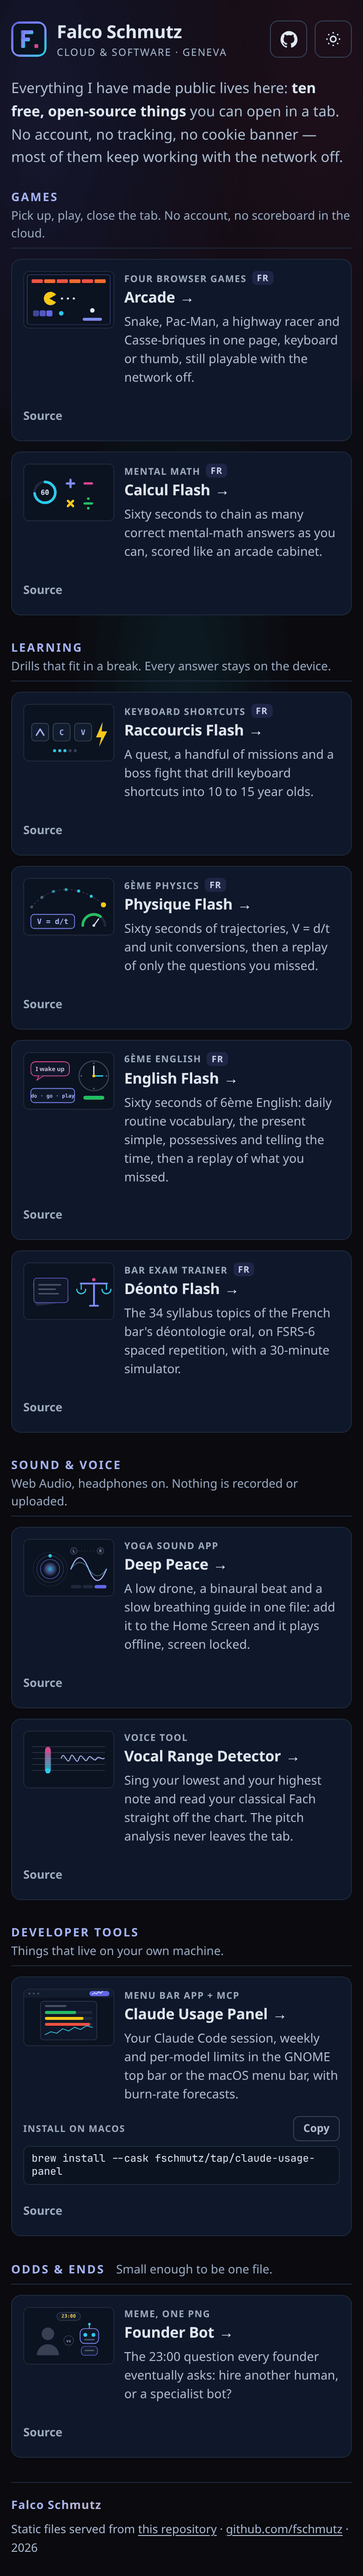
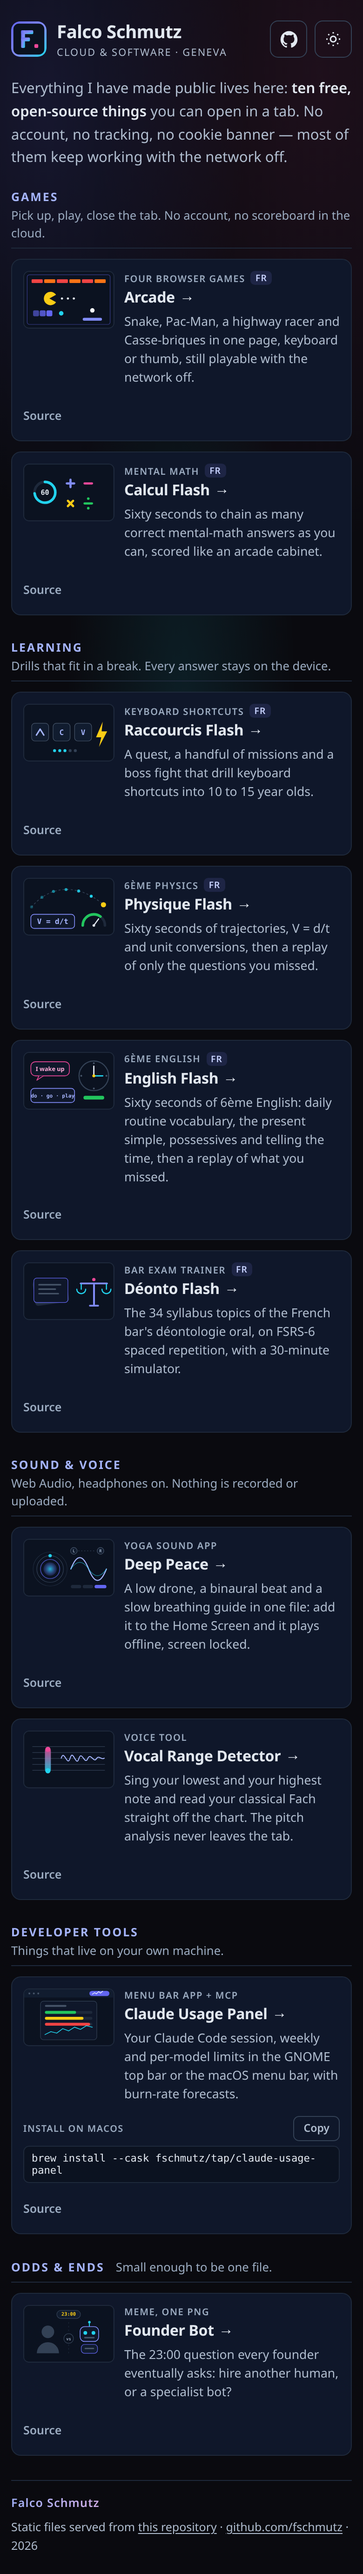
Fill every grid row and keep the arrow with the last word
At 1280 px the grid was always three columns, so Games (two cards), Learning
(four) and the one-card groups left empty tracks. Groups of one, two or four
now get one or two columns of wide cards, thumbnail on the left, so every row
is full. The selectors use :has(), so a browser without it keeps the old grid.

At 320 px a wrapping title could leave the arrow alone on its own line, as in
"Vocal Range Detector". tools/site.py now wraps the last word and the arrow in
a nowrap span. Screenshots regenerated.

diff --git a/index.html b/index.html
@@ -203,7 +203,7 @@
               <rect x="158" y="124" width="52" height="8" rx="4" fill="#818cf8"/>
             </svg>
             <p class="kind">Four browser games<span class="lang">FR<span class="sr-only"> — in French</span></span></p>
-            <h3 class="name"><a class="go" href="https://fschmutz.github.io/ARCADE-GAMES/">Arcade<span class="sr-only"> — play it in the browser</span><span class="arrow" aria-hidden="true">→</span></a></h3>
+            <h3 class="name"><a class="go" href="https://fschmutz.github.io/ARCADE-GAMES/"><span class="tail">Arcade<span class="arrow" aria-hidden="true">→</span></span><span class="sr-only"> — play it in the browser</span></a></h3>
             <p class="summary">Snake, Pac-Man, a highway racer and Casse-briques in one page, keyboard or thumb, still playable with the network off.</p>
             <p class="links">
               <a class="src" href="https://github.com/fschmutz/ARCADE-GAMES">Source<span class="sr-only"> code for Arcade on GitHub</span></a>
@@ -231,7 +231,7 @@
               </g>
             </svg>
             <p class="kind">Mental math<span class="lang">FR<span class="sr-only"> — in French</span></span></p>
-            <h3 class="name"><a class="go" href="https://fschmutz.github.io/calcul-flash/">Calcul Flash<span class="sr-only"> — play it in the browser</span><span class="arrow" aria-hidden="true">→</span></a></h3>
+            <h3 class="name"><a class="go" href="https://fschmutz.github.io/calcul-flash/">Calcul <span class="tail">Flash<span class="arrow" aria-hidden="true">→</span></span><span class="sr-only"> — play it in the browser</span></a></h3>
             <p class="summary">Sixty seconds to chain as many correct mental-math answers as you can, scored like an arcade cabinet.</p>
             <p class="links">
               <a class="src" href="https://github.com/fschmutz/calcul-flash">Source<span class="sr-only"> code for Calcul Flash on GitHub</span></a>
@@ -267,7 +267,7 @@
               </g>
             </svg>
             <p class="kind">Keyboard shortcuts<span class="lang">FR<span class="sr-only"> — in French</span></span></p>
-            <h3 class="name"><a class="go" href="https://fschmutz.github.io/shortcut-flash/">Raccourcis Flash<span class="sr-only"> — play it in the browser</span><span class="arrow" aria-hidden="true">→</span></a></h3>
+            <h3 class="name"><a class="go" href="https://fschmutz.github.io/shortcut-flash/">Raccourcis <span class="tail">Flash<span class="arrow" aria-hidden="true">→</span></span><span class="sr-only"> — play it in the browser</span></a></h3>
             <p class="summary">A quest, a handful of missions and a boss fight that drill keyboard shortcuts into 10 to 15 year olds.</p>
             <p class="links">
               <a class="src" href="https://github.com/fschmutz/shortcut-flash">Source<span class="sr-only"> code for Raccourcis Flash on GitHub</span></a>
@@ -296,7 +296,7 @@
               <circle cx="188" cy="126" r="3.5" fill="#e2e8f0"/>
             </svg>
             <p class="kind">6ème physics<span class="lang">FR<span class="sr-only"> — in French</span></span></p>
-            <h3 class="name"><a class="go" href="https://fschmutz.github.io/physique-flash/">Physique Flash<span class="sr-only"> — play it in the browser</span><span class="arrow" aria-hidden="true">→</span></a></h3>
+            <h3 class="name"><a class="go" href="https://fschmutz.github.io/physique-flash/">Physique <span class="tail">Flash<span class="arrow" aria-hidden="true">→</span></span><span class="sr-only"> — play it in the browser</span></a></h3>
             <p class="summary">Sixty seconds of trajectories, V = d/t and unit conversions, then a replay of only the questions you missed.</p>
             <p class="links">
               <a class="src" href="https://github.com/fschmutz/physique-flash">Source<span class="sr-only"> code for Physique Flash on GitHub</span></a>
@@ -323,7 +323,7 @@
               <rect x="160" y="116" width="56" height="10" rx="5" fill="#22c55e"/>
             </svg>
             <p class="kind">6ème English<span class="lang">FR<span class="sr-only"> — in French</span></span></p>
-            <h3 class="name"><a class="go" href="https://fschmutz.github.io/english-flash/">English Flash<span class="sr-only"> — play it in the browser</span><span class="arrow" aria-hidden="true">→</span></a></h3>
+            <h3 class="name"><a class="go" href="https://fschmutz.github.io/english-flash/">English <span class="tail">Flash<span class="arrow" aria-hidden="true">→</span></span><span class="sr-only"> — play it in the browser</span></a></h3>
             <p class="summary">Sixty seconds of 6ème English: daily routine vocabulary, the present simple, possessives and telling the time, then a replay of what you missed.</p>
             <p class="links">
               <a class="src" href="https://github.com/fschmutz/english-flash">Source<span class="sr-only"> code for English Flash on GitHub</span></a>
@@ -354,7 +354,7 @@
               </g>
             </svg>
             <p class="kind">Bar exam trainer<span class="lang">FR<span class="sr-only"> — in French</span></span></p>
-            <h3 class="name"><a class="go" href="https://fschmutz.github.io/deonto-flash/">Déonto Flash<span class="sr-only"> — open the app</span><span class="arrow" aria-hidden="true">→</span></a></h3>
+            <h3 class="name"><a class="go" href="https://fschmutz.github.io/deonto-flash/">Déonto <span class="tail">Flash<span class="arrow" aria-hidden="true">→</span></span><span class="sr-only"> — open the app</span></a></h3>
             <p class="summary">The 34 syllabus topics of the French bar&#x27;s déontologie oral, on FSRS-6 spaced repetition, with a 30-minute simulator.</p>
             <p class="links">
               <a class="src" href="https://github.com/fschmutz/deonto-flash">Source<span class="sr-only"> code for Déonto Flash on GitHub</span></a>
@@ -399,7 +399,7 @@
               <rect x="190" y="122" width="32" height="9" rx="4.5" fill="#6366f1"/>
             </svg>
             <p class="kind">Yoga sound app</p>
-            <h3 class="name"><a class="go" href="https://fschmutz.github.io/DEEP-PEACE/">Deep Peace<span class="sr-only"> — open the app</span><span class="arrow" aria-hidden="true">→</span></a></h3>
+            <h3 class="name"><a class="go" href="https://fschmutz.github.io/DEEP-PEACE/">Deep <span class="tail">Peace<span class="arrow" aria-hidden="true">→</span></span><span class="sr-only"> — open the app</span></a></h3>
             <p class="summary">A low drone, a binaural beat and a slow breathing guide in one file: add it to the Home Screen and it plays offline, screen locked.</p>
             <p class="links">
               <a class="src" href="https://github.com/fschmutz/DEEP-PEACE">Source<span class="sr-only"> code for Deep Peace on GitHub</span></a>
@@ -427,7 +427,7 @@
               <path d="M100 72 C108 46 116 98 124 72 C132 44 140 100 148 72 C156 50 164 94 172 72 C180 56 188 88 196 72 C202 64 210 78 216 72" fill="none" stroke="#a5b4fc" stroke-width="2.5" stroke-linecap="round"/>
             </svg>
             <p class="kind">Voice tool</p>
-            <h3 class="name"><a class="go" href="https://fschmutz.github.io/vocal-range-detector/">Vocal Range Detector<span class="sr-only"> — open the app</span><span class="arrow" aria-hidden="true">→</span></a></h3>
+            <h3 class="name"><a class="go" href="https://fschmutz.github.io/vocal-range-detector/">Vocal Range <span class="tail">Detector<span class="arrow" aria-hidden="true">→</span></span><span class="sr-only"> — open the app</span></a></h3>
             <p class="summary">Sing your lowest and your highest note and read your classical Fach straight off the chart. The pitch analysis never leaves the tab.</p>
             <p class="links">
               <a class="src" href="https://github.com/fschmutz/vocal-range-detector">Source<span class="sr-only"> code for Vocal Range Detector on GitHub</span></a>
@@ -462,7 +462,7 @@
               <path d="M56 122 L72 114 L88 118 L104 106 L120 112 L136 102 L152 108 L168 98 L184 102" fill="none" stroke="#22d3ee" stroke-width="2" stroke-linecap="round"/>
             </svg>
             <p class="kind">Menu bar app + MCP</p>
-            <h3 class="name"><a class="go" href="https://fschmutz.github.io/claude-usage-panel/">Claude Usage Panel<span class="sr-only"> — open the app</span><span class="arrow" aria-hidden="true">→</span></a></h3>
+            <h3 class="name"><a class="go" href="https://fschmutz.github.io/claude-usage-panel/">Claude Usage <span class="tail">Panel<span class="arrow" aria-hidden="true">→</span></span><span class="sr-only"> — open the app</span></a></h3>
             <p class="summary">Your Claude Code session, weekly and per-model limits in the GNOME top bar or the macOS menu bar, with burn-rate forecasts.</p>
             <div class="install">
               <span class="install-label" id="claude-usage-panel-install">Install on macOS</span>
@@ -502,7 +502,7 @@
               <text x="120" y="93" text-anchor="middle" font-family="ui-monospace, monospace" font-size="11" font-weight="700" fill="#94a3b8">vs</text>
             </svg>
             <p class="kind">Meme, one PNG</p>
-            <h3 class="name"><a class="go" href="https://github.com/fschmutz/founder-bot-meme/blob/main/falco-founder-bot-meme.png">Founder Bot<span class="sr-only"> — view it on GitHub</span><span class="arrow" aria-hidden="true">→</span></a></h3>
+            <h3 class="name"><a class="go" href="https://github.com/fschmutz/founder-bot-meme/blob/main/falco-founder-bot-meme.png">Founder <span class="tail">Bot<span class="arrow" aria-hidden="true">→</span></span><span class="sr-only"> — view it on GitHub</span></a></h3>
             <p class="summary">The 23:00 question every founder eventually asks: hire another human, or a specialist bot?</p>
             <p class="links">
               <a class="src" href="https://github.com/fschmutz/founder-bot-meme">Source<span class="sr-only"> code for Founder Bot on GitHub</span></a>

diff --git a/assets/home.css b/assets/home.css
@@ -296,6 +296,9 @@ main { display: flex; flex-direction: column; gap: 26px; }
   z-index: 1;
 }
 .card:hover .name .go { color: var(--accent); }
+/* The last word and the arrow wrap together, so the arrow never ends up
+   alone on a line of its own. */
+.name .tail { white-space: nowrap; }
 .arrow { display: inline-block; margin-left: 5px; transition: transform 0.15s ease; }
 .card:hover .arrow { transform: translateX(3px); }
 
@@ -471,6 +474,29 @@ main { display: flex; flex-direction: column; gap: 26px; }
   .cards { grid-template-columns: repeat(3, minmax(0, 1fr)); gap: 15px; }
   .group-head { margin-bottom: 13px; }
   .name { font-size: 1.05rem; }
+
+  /* A group whose count does not fill rows of three would leave an empty
+     track. One, two or four cards get a wide card instead (thumbnail on the
+     left, text on the right) in one or two columns, so every row is full. */
+  .cards:has(> .card:only-child) { grid-template-columns: minmax(0, 1fr); }
+  .cards:has(> .card:nth-child(2):last-child),
+  .cards:has(> .card:nth-child(4):last-child) { grid-template-columns: repeat(2, minmax(0, 1fr)); }
+  .cards:has(> .card:only-child) > .card,
+  .cards:has(> .card:nth-child(2):last-child) > .card,
+  .cards:has(> .card:nth-child(4):last-child) > .card {
+    grid-template-columns: minmax(0, 15rem) minmax(0, 1fr);
+    grid-template-areas:
+      "thumb kind"
+      "thumb name"
+      "thumb summary"
+      "thumb install"
+      "thumb links";
+    grid-template-rows: auto auto auto auto 1fr;
+    column-gap: 16px;
+    align-content: start;
+  }
+  .cards:has(> .card:only-child) > .card { grid-template-columns: minmax(0, 17rem) minmax(0, 1fr); }
+  .cards:has(> .card:only-child) .summary { max-width: 62ch; }
 }
 
 @media (prefers-reduced-motion: reduce) {

diff --git a/tools/site.py b/tools/site.py
@@ -120,10 +120,14 @@ def card(item: dict, indent: str) -> str:
 
     # The stretched link: .go::after covers the card, so a click anywhere that
     # is not another control activates this one.
+    # The last word and the arrow share a nowrap span so a wrapping title
+    # never leaves the arrow alone on the next line.
+    head, _, last = item["name"].rpartition(" ")
+    lead = f"{escape(head)} " if head else ""
     out.append(
-        f'{indent}  <h3 class="name"><a class="go" href="{escape(item["url"])}">{name}'
-        f'<span class="sr-only"> — {ACTIONS[action]}</span>'
-        f'<span class="arrow" aria-hidden="true">→</span></a></h3>'
+        f'{indent}  <h3 class="name"><a class="go" href="{escape(item["url"])}">{lead}'
+        f'<span class="tail">{escape(last)}<span class="arrow" aria-hidden="true">→</span></span>'
+        f'<span class="sr-only"> — {ACTIONS[action]}</span></a></h3>'
     )
     out.append(f'{indent}  <p class="summary">{escape(item["summary"])}</p>')
 
